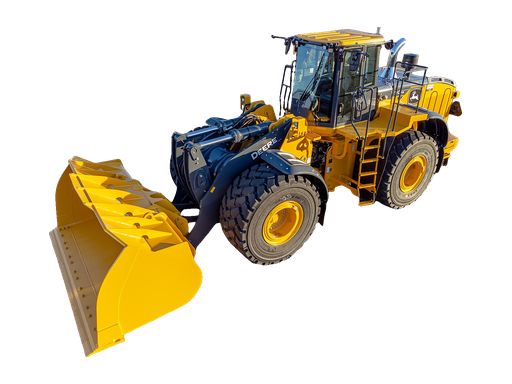
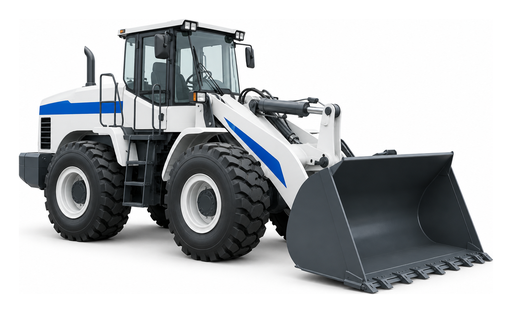
Figma fotolari: frontal yuklagich, katok, beton aralashtirgich, yuk mashinasi; mashina rasmi adminda
- Figma «Mijoz ilovasi» Katalog bo'limidan: front_loader (CC0 sariq foto
  o'rniga), roller, concrete_mixer, freight_truck
- «Yuk tashish» plitkasi, banneri va mashina kartalarida yuk mashinasi fotosi
- delivery_vehicles.icon_url: catalog.php da har bir mashinaga rasm yuklanadi
  (Labo, Porter, Gazel… dizayner tayyorlaganda — ilova yangilanmasdan)

diff --git a/mobile/lib/features/taxi/presentation/widgets/taxi_ui.dart b/mobile/lib/features/taxi/presentation/widgets/taxi_ui.dart
@@ -61,8 +61,9 @@ class EquipmentPhoto extends StatelessWidget {
   /// остальное почти не меняется.
   final Color background;
 
-  /// front_loader.png — фото «Front end loader 4» с Wikimedia Commons
-  /// (CC0, автор Wikideas1), фон вырезан. В Figma экспорт закрыт.
+  /// Все фото — из Figma «Mijoz ilovasi» (раздел «Katalog», 24.11.2026):
+  /// front_loader, roller и concrete_mixer пришли оттуда, жёлтое CC0-фото
+  /// погрузчика заменено.
   static const _photos = {
     'excavator',
     'front_loader',
@@ -72,6 +73,8 @@ class EquipmentPhoto extends StatelessWidget {
     'concrete_pump',
     'dump_truck',
     'aerial_platform',
+    'roller',
+    'concrete_mixer',
   };
 
   Widget _local() {
@@ -129,6 +132,47 @@ class EquipmentPhoto extends StatelessWidget {
       color: background,
       colorBlendMode: BlendMode.multiply,
     );
+  }
+}
+
+/// Грузовик «Yuk tashish». Своя картинка модели из админки (catalog.php →
+/// Rasm) главнее; нет её — общий тентованный грузовик из Figma.
+class TruckPhoto extends StatelessWidget {
+  const TruckPhoto({
+    super.key,
+    this.iconUrl,
+    this.width = 70,
+    this.height = 52,
+    this.background = AppPalette.brandSubtle,
+  });
+
+  final String? iconUrl;
+  final double width;
+  final double height;
+  final Color background;
+
+  Widget _asset() => Image.asset(
+        'assets/equipment_photos/freight_truck.png',
+        width: width,
+        height: height,
+        fit: BoxFit.contain,
+        color: background,
+        colorBlendMode: BlendMode.multiply,
+      );
+
+  @override
+  Widget build(BuildContext context) {
+    final u = iconUrl;
+    if (u != null && u.isNotEmpty) {
+      return Image.network(
+        AppConfig.mediaUrl(u),
+        width: width,
+        height: height,
+        fit: BoxFit.contain,
+        errorBuilder: (_, __, ___) => _asset(),
+      );
+    }
+    return _asset();
   }
 }
 
@@ -339,7 +383,7 @@ class TypeTile extends StatelessWidget {
                     : (type == 'materials'
                         ? SvgPicture.asset('assets/material_types/brick.svg', width: 38, height: 38, fit: BoxFit.contain)
                         : (type == 'freight'
-                            ? SvgPicture.asset('assets/equipment_types/dump_truck.svg', width: 42, height: 42, fit: BoxFit.contain)
+                            ? const TruckPhoto()
                             : EquipmentPhoto(type))),
               ),
               const SizedBox(height: AppSpacing.sm),

diff --git a/mobile/lib/features/freight/presentation/freight_flow.dart b/mobile/lib/features/freight/presentation/freight_flow.dart
@@ -8,6 +8,7 @@ import '../../../core/utils/number_formatter.dart';
 import '../../../core/widgets/h_icon.dart';
 import '../../taxi/data/taxi_geo.dart';
 import '../../taxi/presentation/pages/address_pick_page.dart';
+import '../../taxi/presentation/widgets/taxi_ui.dart';
 import '../data/freight_api.dart';
 import 'freight_orders_page.dart';
 
@@ -213,7 +214,7 @@ class _TruckCard extends StatelessWidget {
                 width: 64,
                 height: 56,
                 decoration: BoxDecoration(color: AppPalette.page, borderRadius: BorderRadius.circular(AppRadius.md)),
-                child: const HIcon(Icons.local_shipping_outlined, color: AppPalette.iconBrand, size: 30),
+                child: TruckPhoto(iconUrl: v.iconUrl, width: 60, height: 48, background: AppPalette.page),
               ),
               const SizedBox(width: 12),
               Expanded(

diff --git a/mobile/lib/features/freight/data/freight_api.dart b/mobile/lib/features/freight/data/freight_api.dart
@@ -13,6 +13,8 @@ class FreightVehicle {
 
   String get code => j['code'] as String;
   String get name => (j['name'] ?? code) as String;
+  /// Картинка модели из админки; null — общий грузовик.
+  String? get iconUrl => j['icon_url'] as String?;
   int get capacityKg => (j['capacity_kg'] ?? 0) as int;
   double get tonnes => capacityKg / 1000;
   bool get bodyChoice => j['has_body_choice'] == true;

diff --git a/mobile/lib/features/taxi/presentation/pages/taxi_home_page.dart b/mobile/lib/features/taxi/presentation/pages/taxi_home_page.dart
@@ -1691,7 +1691,7 @@ class _TaxiHomePageState extends State<TaxiHomePage> {
                     ]),
                   ),
                   const SizedBox(width: 8),
-                  const HIcon(Icons.local_shipping_outlined, color: AppPalette.iconBrand, size: 48),
+                  const TruckPhoto(width: 96, height: 56),
                 ]),
               ),
             ),

diff --git a/admin/catalog.php b/admin/catalog.php
@@ -151,6 +151,20 @@ if ($_SERVER['REQUEST_METHOD'] === 'POST') {
             }
         }
 
+    } elseif ($form === 'vehicle_icon') {
+        $code = (string)($_POST['code'] ?? '');
+        $f = $_FILES['icon'] ?? null;
+        if (!$f || ($f['error'] ?? UPLOAD_ERR_NO_FILE) !== UPLOAD_ERR_OK) {
+            $error = 'Rasm tanlanmagan';
+        } else {
+            $res = internalApiUpload(
+                '/equipment/internal/vehicles/' . rawurlencode($code) . '/icon',
+                $f['tmp_name'], (string)$f['name'], (string)($f['type'] ?: 'image/png')
+            );
+            $message = $res['ok'] ? 'Mashina rasmi yuklandi.' : null;
+            if (!$res['ok']) $error = 'Rasm yuklanmadi: ' . $res['error'];
+        }
+
     } elseif ($form === 'vehicle_save' || $form === 'vehicle_add') {
         $code = strtolower(trim((string)($_POST['code'] ?? '')));
         $name = trim((string)($_POST['name'] ?? ''));
@@ -392,11 +406,22 @@ function money($v) {
             </p>
             <table>
                 <thead>
-                    <tr><th>Kod</th><th>Nomi</th><th>Sig'im, kg</th><th>Kuzov, m³</th><th>Podacha, so'm</th><th>1 km, so'm</th><th>Rejim</th><th>1 soat / kamida</th><th>Marka / sinf / kuzov (U×E×B, m) / kuzov turlari</th><th>Tartib</th><th>Holati</th><th></th></tr>
+                    <tr><th>Rasm</th><th>Kod</th><th>Nomi</th><th>Sig'im, kg</th><th>Kuzov, m³</th><th>Podacha, so'm</th><th>1 km, so'm</th><th>Rejim</th><th>1 soat / kamida</th><th>Marka / sinf / kuzov (U×E×B, m) / kuzov turlari</th><th>Tartib</th><th>Holati</th><th></th></tr>
                 </thead>
                 <tbody>
                 <?php foreach ($vehicles as $v): $fid = 've_' . $v['code']; ?>
                     <tr style="<?= $v['is_enabled'] ? '' : 'opacity:.55' ?>">
+                        <td>
+                            <?php if (!empty($v['icon_url'])): ?>
+                                <img src="<?= htmlspecialchars($v['icon_url']) ?>" alt="" style="width:56px;height:40px;object-fit:contain;background:#EAF2FB;border-radius:8px;display:block">
+                            <?php endif; ?>
+                            <form method="POST" action="" enctype="multipart/form-data">
+                                <input type="hidden" name="csrf_token" value="<?= generateCsrfToken() ?>">
+                                <input type="hidden" name="form" value="vehicle_icon">
+                                <input type="hidden" name="code" value="<?= htmlspecialchars($v['code']) ?>">
+                                <input type="file" name="icon" accept="image/png,image/jpeg,image/webp" style="width:110px" onchange="this.form.submit()">
+                            </form>
+                        </td>
                         <td><code><?= htmlspecialchars($v['code']) ?></code></td>
                         <td><input form="<?= $fid ?>" name="name" value="<?= htmlspecialchars($v['name']) ?>" style="width:140px"></td>
                         <td><input form="<?= $fid ?>" name="capacity_kg" value="<?= (int)$v['capacity_kg'] ?>" style="width:90px"></td>

diff --git a/backend/tests/verify_freight.py b/backend/tests/verify_freight.py
@@ -17,6 +17,7 @@
 
     API=http://127.0.0.1:8010 venv/Scripts/python tests/verify_freight.py
 """
+import base64
 import os
 import sys
 import threading
@@ -158,6 +159,23 @@ try:
         "loader_mode": "week"})
     check("неизвестный режим грузчика — 422", r.status_code == 422, f"{r.status_code}")
     check("свободные водители считаются (Y2)", isinstance(g.get("free_drivers"), int))
+
+    # Картинка модели из админки (catalog.php → Rasm), 24.11.2026
+    from app.core.config import settings as _st
[1 lines of base64/hex data omitted]
+    old_icon = sql("SELECT icon_url FROM delivery_vehicles WHERE code='gazel'")[0][0]
+    r = requests.post(f"{API}/equipment/internal/vehicles/gazel/icon", files={"file": ("g.png", png, "image/png")})
+    check("загрузка картинки без секрета — отказ", r.status_code in (401, 403, 404), f"{r.status_code}")
+    r = requests.post(f"{API}/equipment/internal/vehicles/gazel/icon",
+                      headers={"X-Admin-Secret": _st.ADMIN_INTERNAL_SECRET},
+                      files={"file": ("g.png", png, "image/png")})
+    check("админ загрузил картинку Gazel", r.status_code == 200 and r.json().get("icon_url", "").startswith("/static/"),
+          f"{r.status_code} {r.text[:120]}")
+    qi = requests.get(f"{API}/freight/quote", headers=client, params={
+        "from_lat": 41.30, "from_lon": 69.24, "to_lat": 41.35, "to_lon": 69.30}).json()
+    gi = next(v for v in qi["vehicles"] if v["code"] == "gazel")
+    check("картинка модели в котировке", gi.get("icon_url") == (r.json().get("icon_url") if r.status_code == 200 else 1))
+    sql("UPDATE delivery_vehicles SET icon_url=:u WHERE code='gazel'", u=old_icon)
 
     head("2. ПРОВЕРКИ ПРИ СОЗДАНИИ")
     set_money(client_id, 1_000_000)

diff --git a/backend/app/routes/equipment.py b/backend/app/routes/equipment.py
@@ -155,6 +155,28 @@ def upload_catalog_icon(
     return {"icon_url": url}
 
 
+@router.post("/internal/vehicles/{code}/icon")
+def upload_vehicle_icon(
+    code: str,
+    file: UploadFile = File(...),
+    db: Session = Depends(get_db),
+    _admin=Depends(require_internal_admin),
+):
+    """Картинка грузовика (Labo, Porter…) из админки. Старый файл удаляется."""
+    from app.models.catalog import DeliveryVehicleRow
+
+    row = db.query(DeliveryVehicleRow).filter(DeliveryVehicleRow.code == code).first()
+    if row is None:
+        raise HTTPException(404, "Mashina topilmadi")
+    url = media.save_upload(file, "catalog")
+    old = row.icon_url
+    row.icon_url = url
+    db.commit()
+    if old and media.is_own_media(old):
+        media.delete_by_url(old)
+    return {"icon_url": url}
+
+
 @router.get("/{equipment_id}", response_model=EquipmentRead)
 def get_equipment(
     equipment_id: int,

diff --git a/backend/app/services/freight_service.py b/backend/app/services/freight_service.py
@@ -173,6 +173,7 @@ def quote(db: Session, from_lat: float, from_lon: float, to_lat: float, to_lon: 
             "code": v.code,
             "name": v.name,
             "brand": v.brand or v.name,
+            "icon_url": v.icon_url,
             "size_class": v.size_class,
             "capacity_kg": v.capacity_kg,
             "volume_m3": v.volume_m3,
@@ -498,6 +499,7 @@ def read(db: Session, o: FreightOrder, viewer: User) -> dict:
     v = db.query(DeliveryVehicleRow).filter(DeliveryVehicleRow.code == o.vehicle_code).first()
     out = {c.name: getattr(o, c.name) for c in FreightOrder.__table__.columns}
     out["vehicle_name"] = v.name if v else o.vehicle_code
+    out["vehicle_icon_url"] = v.icon_url if v else None
     out["capacity_kg"] = v.capacity_kg if v else None
     if o.driver_id:
         d = db.query(User).filter(User.id == o.driver_id).first()

diff --git a/backend/alembic/versions/a7d9c1e3f584_vehicle_icons.py b/backend/alembic/versions/a7d9c1e3f584_vehicle_icons.py
@@ -1,0 +1,23 @@
+"""Картинка грузовика из админки (catalog.php): Labo, Porter, Gazel…
+
+Дизайнер (Xusniddin) рисует иконки по моделям; админ загружает их сам,
+без новой версии приложения. NULL — общая картинка грузовика в приложении.
+
+Revision ID: a7d9c1e3f584
+Revises: f1c3e5a7b924
+"""
+from alembic import op
+import sqlalchemy as sa
+
+revision = 'a7d9c1e3f584'
+down_revision = 'f1c3e5a7b924'
+branch_labels = None
+depends_on = None
+
+
+def upgrade():
+    op.add_column('delivery_vehicles', sa.Column('icon_url', sa.String(255), nullable=True))
+
+
+def downgrade():
+    op.drop_column('delivery_vehicles', 'icon_url')

diff --git a/backend/app/models/catalog.py b/backend/app/models/catalog.py
@@ -69,6 +69,8 @@ class DeliveryVehicleRow(Base):
         return [b for b in (self.body_types or "").split(",") if b]
     is_enabled = Column(Boolean, nullable=False, default=True)
     sort_order = Column(Integer, nullable=False, default=0)
+    #: Картинка модели из админки; NULL — общая картинка грузовика.
+    icon_url = Column(String(255), nullable=True)
 
     __table_args__ = (
         CheckConstraint("capacity_kg > 0", name="check_delivery_vehicle_capacity"),
